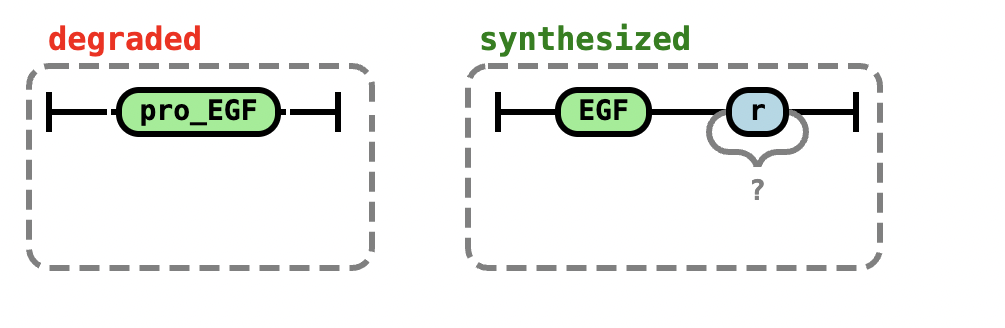
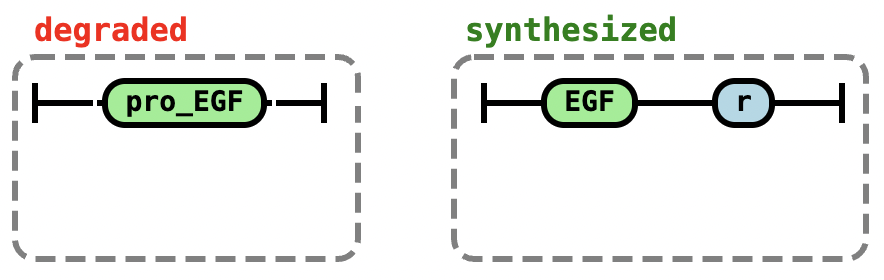
update images for viz.html, add molecule image to index.html

diff --git a/index.html b/index.html
@@ -40,6 +40,19 @@
     padding: 1em;
     box-sizing: border-box;
     }
+    .section-flex {
+      display: flex;
+      align-items: flex-start;
+      justify-content: space-between;
+      gap: 2em;   
+    }
+    .controls {
+      flex: 1;
+    }
+    .diagram-image {
+      flex-shrink: 0;
+      margin-right: 150px;
+    }
     .diagram-block {
       margin-bottom: 2em;
     }
@@ -91,7 +104,8 @@
 </header>
   <h2>BNGL to Diagram Visualizer</h2>
 
-  <div class="section">
+  <div class="section-flex">
+  <div class="controls">
     <label for="bnglFile">Input BNGL File:</label>
     <input type="file" id="bnglFile" accept=".bngl" />
     <button id="clearBtn">Clear</button>
@@ -101,6 +115,11 @@
     <label><input type="checkbox" id="showMolecules" checked /> Show molecular names</label>
     <label><input type="checkbox" id="showBondIndices" unchecked /> Show bond indices</label>
   </div>
+
+  <div class="diagram-image">
+    <img src="images/rr-egfr-w:bngl.png" alt="egfr molecule rr visualization" style="width: 550px; height: auto;" />
+  </div>
+</div>
 
   <button id="visualizeBtn">Visualize</button>
   <button id="saveBtn">Save Diagram</button>

diff --git a/viz.html b/viz.html
@@ -210,7 +210,7 @@ EGF().EGFR() -> EGFR()</code><br><br>
 EGF(r!1).EGFR(l!1,r) -> EGFR(l,r)</code><br><br>
     </td>
     <td id="canvas-text">
-      <img src="images/rr-images/rr-synth-deg.png" width=400>
+      <img src="images/rr-images/rr-synth-deg.png" width=350>
       <img src="images/rr-images/rr-deg-separation.png" width=600>
       <img src="images/rr-images/rr-deg-unbind-separation.png" width=600>
     </td>
